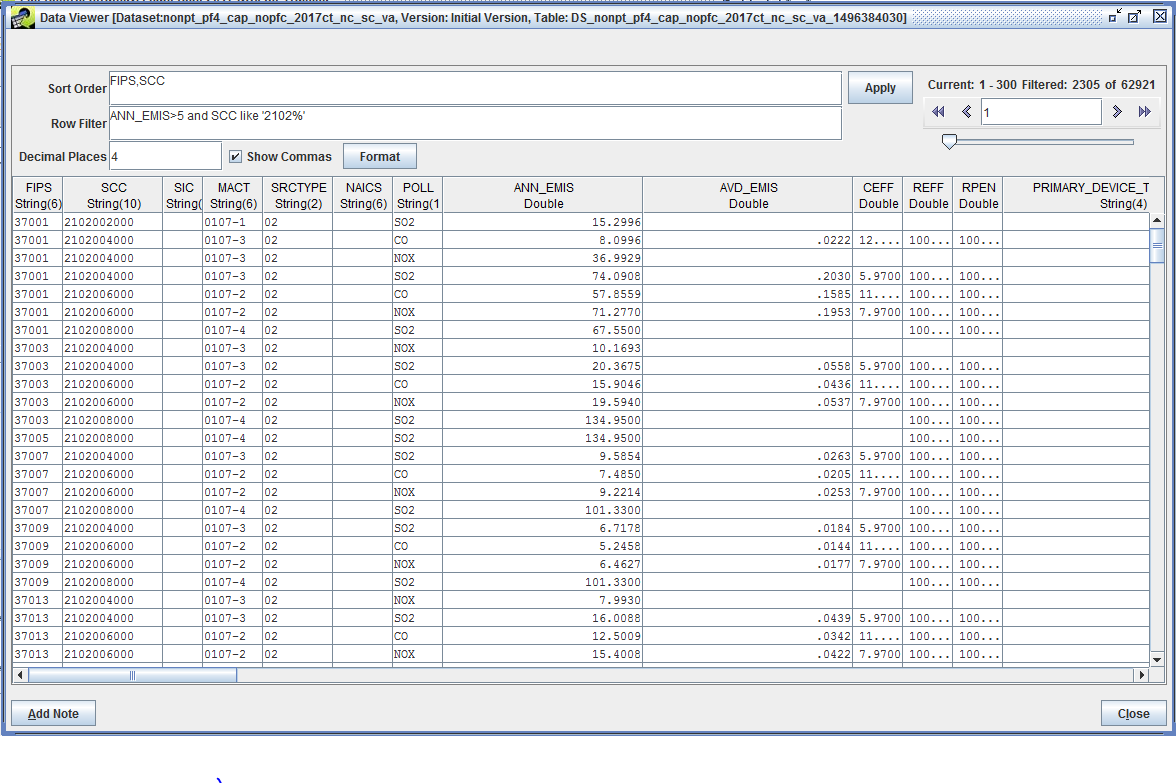
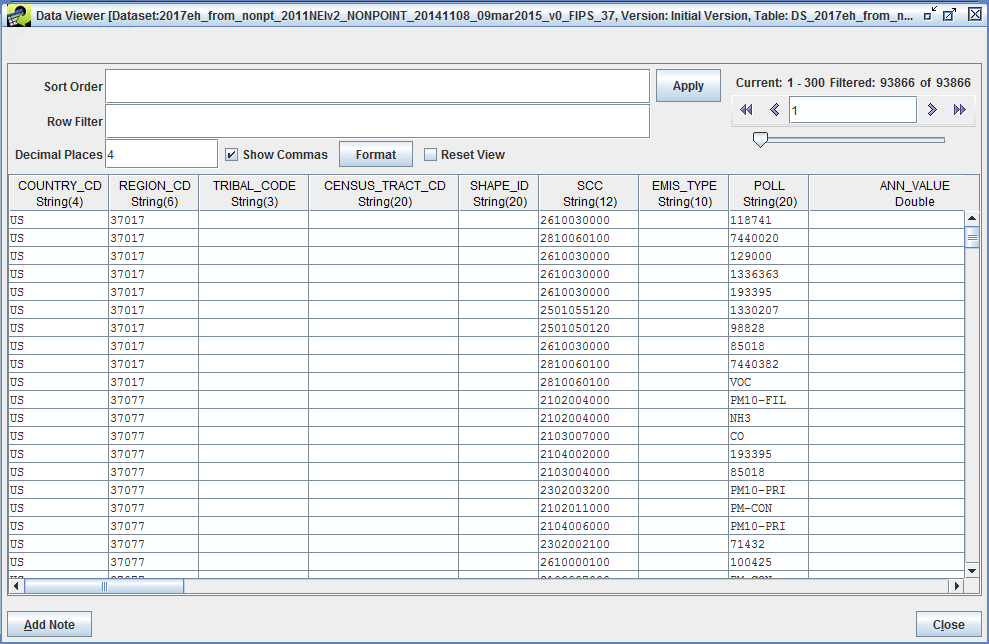
update FIPS to REGION_CD

diff --git a/EMF/deploy/doc/guides/cost/ch4_control_strategy_manager.md b/EMF/deploy/doc/guides/cost/ch4_control_strategy_manager.md
@@ -382,7 +382,7 @@ There are also buttons at the bottom of the window. The **Edit Properties** butt
 
 33\. Inventories can have a lot of data - up to millions of rows. The fields in the upper right corner of the window in the area labeled "**Current**:" provide information about how many rows the inventory has, and which rows are currently visible. The Data Viewer transfers only a small amount of data (300 rows) from the server to your desktop client to keep the transfer time reasonable. It works similarly to a web search engine that shows the results in pages, and the pagination arrows near the upper right corner of the window facilitate moving between pages of data. **Try using some of the pagination arrows in the upper right corner to see how they work:** go to first record, go to previous page, give a specific record, go to next page, and go to last record.
 
-34\. You can control how the data are sorted by entering a comma-separated list of columns in the **Sort Order** field and then clicking **Apply**. For training purposes, if you are using a UNC laptop, do not specify a sort order because this function is very slow on these laptops. It should be much faster on a true EMF server. Note that a descending sort can be specified by following the column name with "desc" (e.g., "ANN\_EMIS desc, FIPS" will sort by decreasing annual emissions and then by county).
+34\. You can control how the data are sorted by entering a comma-separated list of columns in the **Sort Order** field and then clicking **Apply**. For training purposes, if you are using a UNC laptop, do not specify a sort order because this function is very slow on these laptops. It should be much faster on a true EMF server. Note that a descending sort can be specified by following the column name with "desc" (e.g., "ANN\_VALUE desc, REGION_CD" will sort by decreasing annual emissions and then by county).
 
 35\. If you enter a **Row Filter**, and then click **Apply**, the Data Viewer will find rows that meet the criteria you specified. Examples of the syntax for row filters are given in [Table](#examples_of_row_filters_table). See [Chapter](#sql_chapter) for additional row filter examples. For training purposes, if you are using a UNC laptop, do not specify a row filter because this function is very slow, otherwise you may try some of the filters.
 
@@ -390,8 +390,8 @@ Filter Purpose|SQL Where Clause
 -|-
 Filter on a particular set of SCCs|`scc like '101%' or scc like '102%'`
 Filter on a particular set of pollutants|`poll in ('PM10', 'PM2\_5')`<br/>*or*<br/>`POLL = 'PM10' or POLL = 'PM2\_5'`
-Filter sources only in NC (State FIPS = 37), SC (45), and VA (51);<br/>note that FIPS column format is State + County FIPS code (e.g., 37001)|`substring(FIPS,1,2) in ('37', '45', '51')`
-Filter sources only in CA (06) and include only NO~x and VOC pollutants|`substring(fips,1,2) = '06' and poll in ('NOX', 'VOC')`<br/>*or*<br/>`fips like '06%' and (poll = 'NOX' or poll = 'VOC')`
+Filter sources only in NC (REGION\_CD = 37), SC (45), and VA (51);<br/>note that REGION\_CD column format is State + County FIPS code (e.g., 37001)|`substring(FIPS,1,2) in ('37', '45', '51')`
+Filter sources only in NC (37) and include only NO~x and VOC pollutants|`substring(REGION\_CD,1,2) = '37' and poll in ('NOX', 'VOC')`<br/>*or*<br/>`fips like '37%' and (poll = 'NOX' or poll = 'VOC')`
 [Examples of Row Filters (Data Viewer window) and Inventory Filters (Inventories tab of the Edit Control Strategy window)][examples_of_row_filters_table]
 
 36\. When you are finished examining the Data Viewer, click **Close** to close the window.
@@ -408,7 +408,7 @@ The **County Dataset** field allows another way to filter the inventory. With th
 
 *Note that only the records of the input inventories that pass both the inventory and county filters will be considered for control measure application.*
 
-37\. **For training purposes**, on the **Inventories** tab, specify the following **Inventory Filter: `FIPS in ('45001', '45009', '45011')`**. Note that specifying a list of counties using the Inventory Filter is an alternative to specifying a county dataset that has a list of counties to consider controlling in the strategy (as show in the next bullet). If you just wanted to control a few counties, you might use the Inventory Filter, but if you want to control more than a few counties, the county dataset method is recommended. In addition, many types of Inventory Filters can be specified using other fields of the inventory depending on the needs of your analysis (e.g., `SCC like '231%'`, or `ANN_EMIS>5`).
+37\. **For training purposes**, on the **Inventories** tab, specify the following **Inventory Filter: `FIPS in ('45001', '45009', '45011')`**. Note that specifying a list of counties using the Inventory Filter is an alternative to specifying a county dataset that has a list of counties to consider controlling in the strategy (as show in the next bullet). If you just wanted to control a few counties, you might use the Inventory Filter, but if you want to control more than a few counties, the county dataset method is recommended. In addition, many types of Inventory Filters can be specified using other fields of the inventory depending on the needs of your analysis (e.g., `SCC like '231%'`, or `ANN_VALUE>5`).
 
 38\. **Examine the available county datasets by pulling down the menu and select one of the datasets.** After you have selected a county dataset, examine its properties and the data themselves by clicking the **View** and **View Data** buttons.
 
